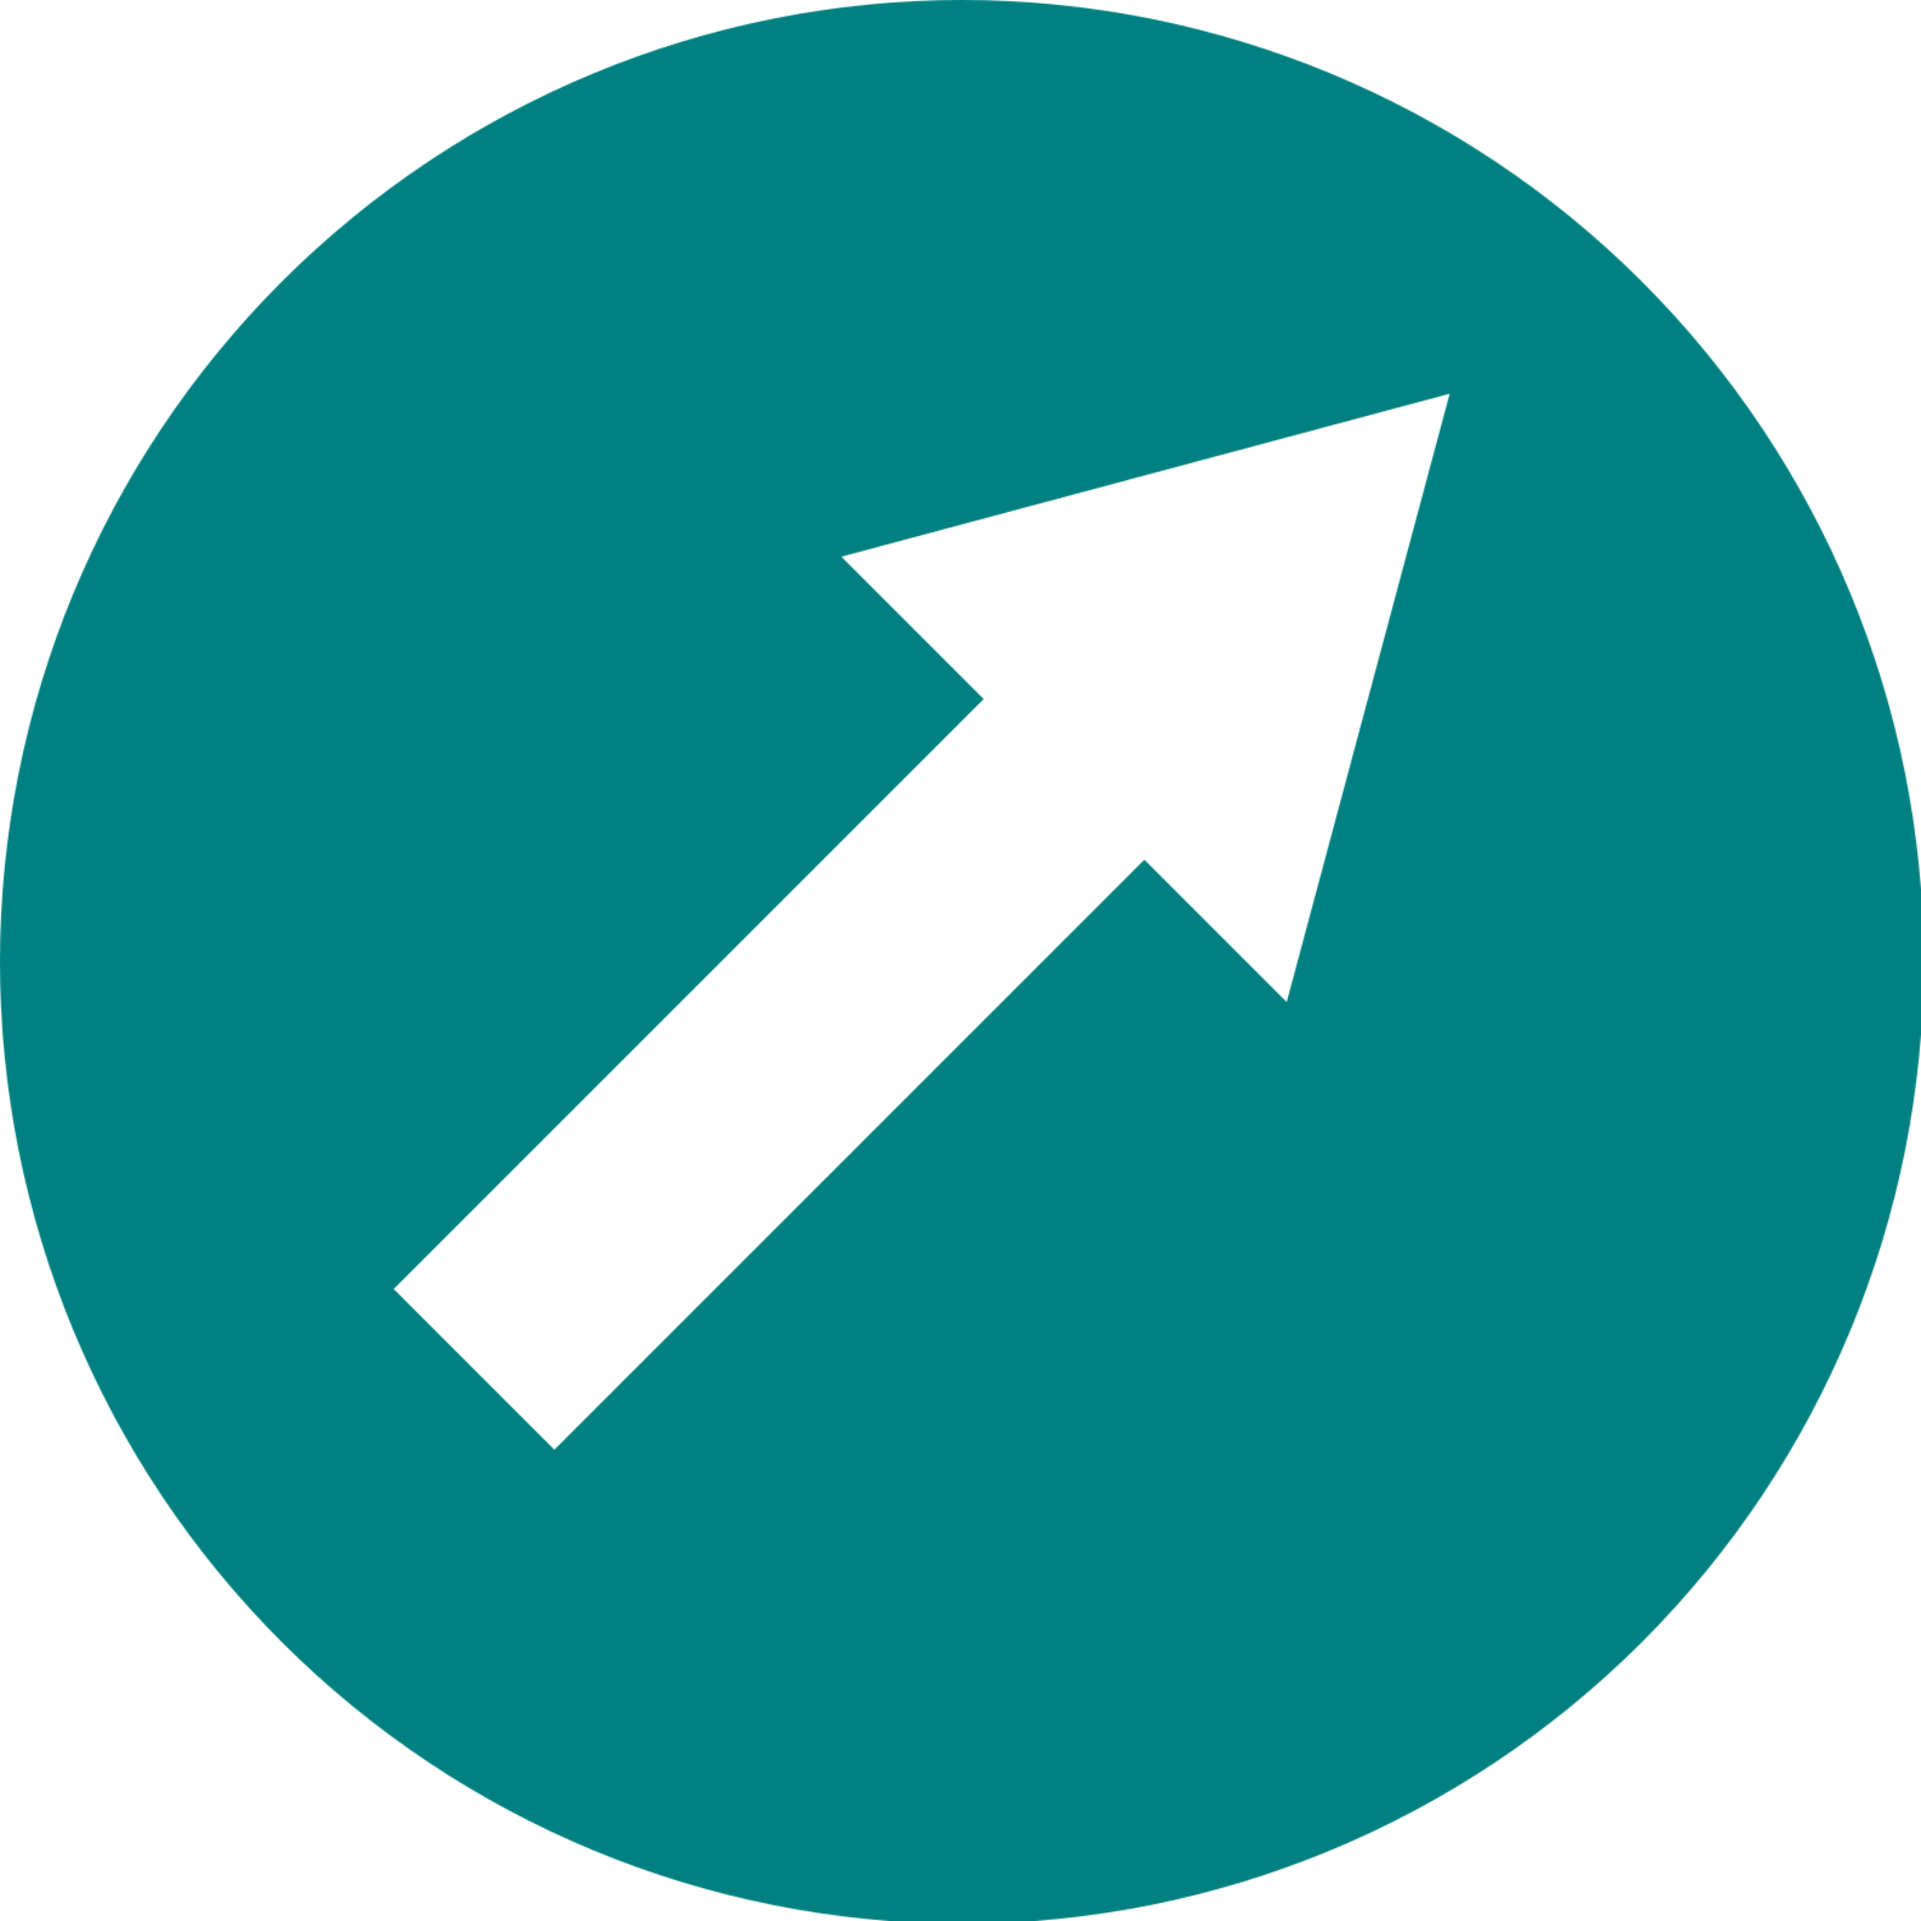
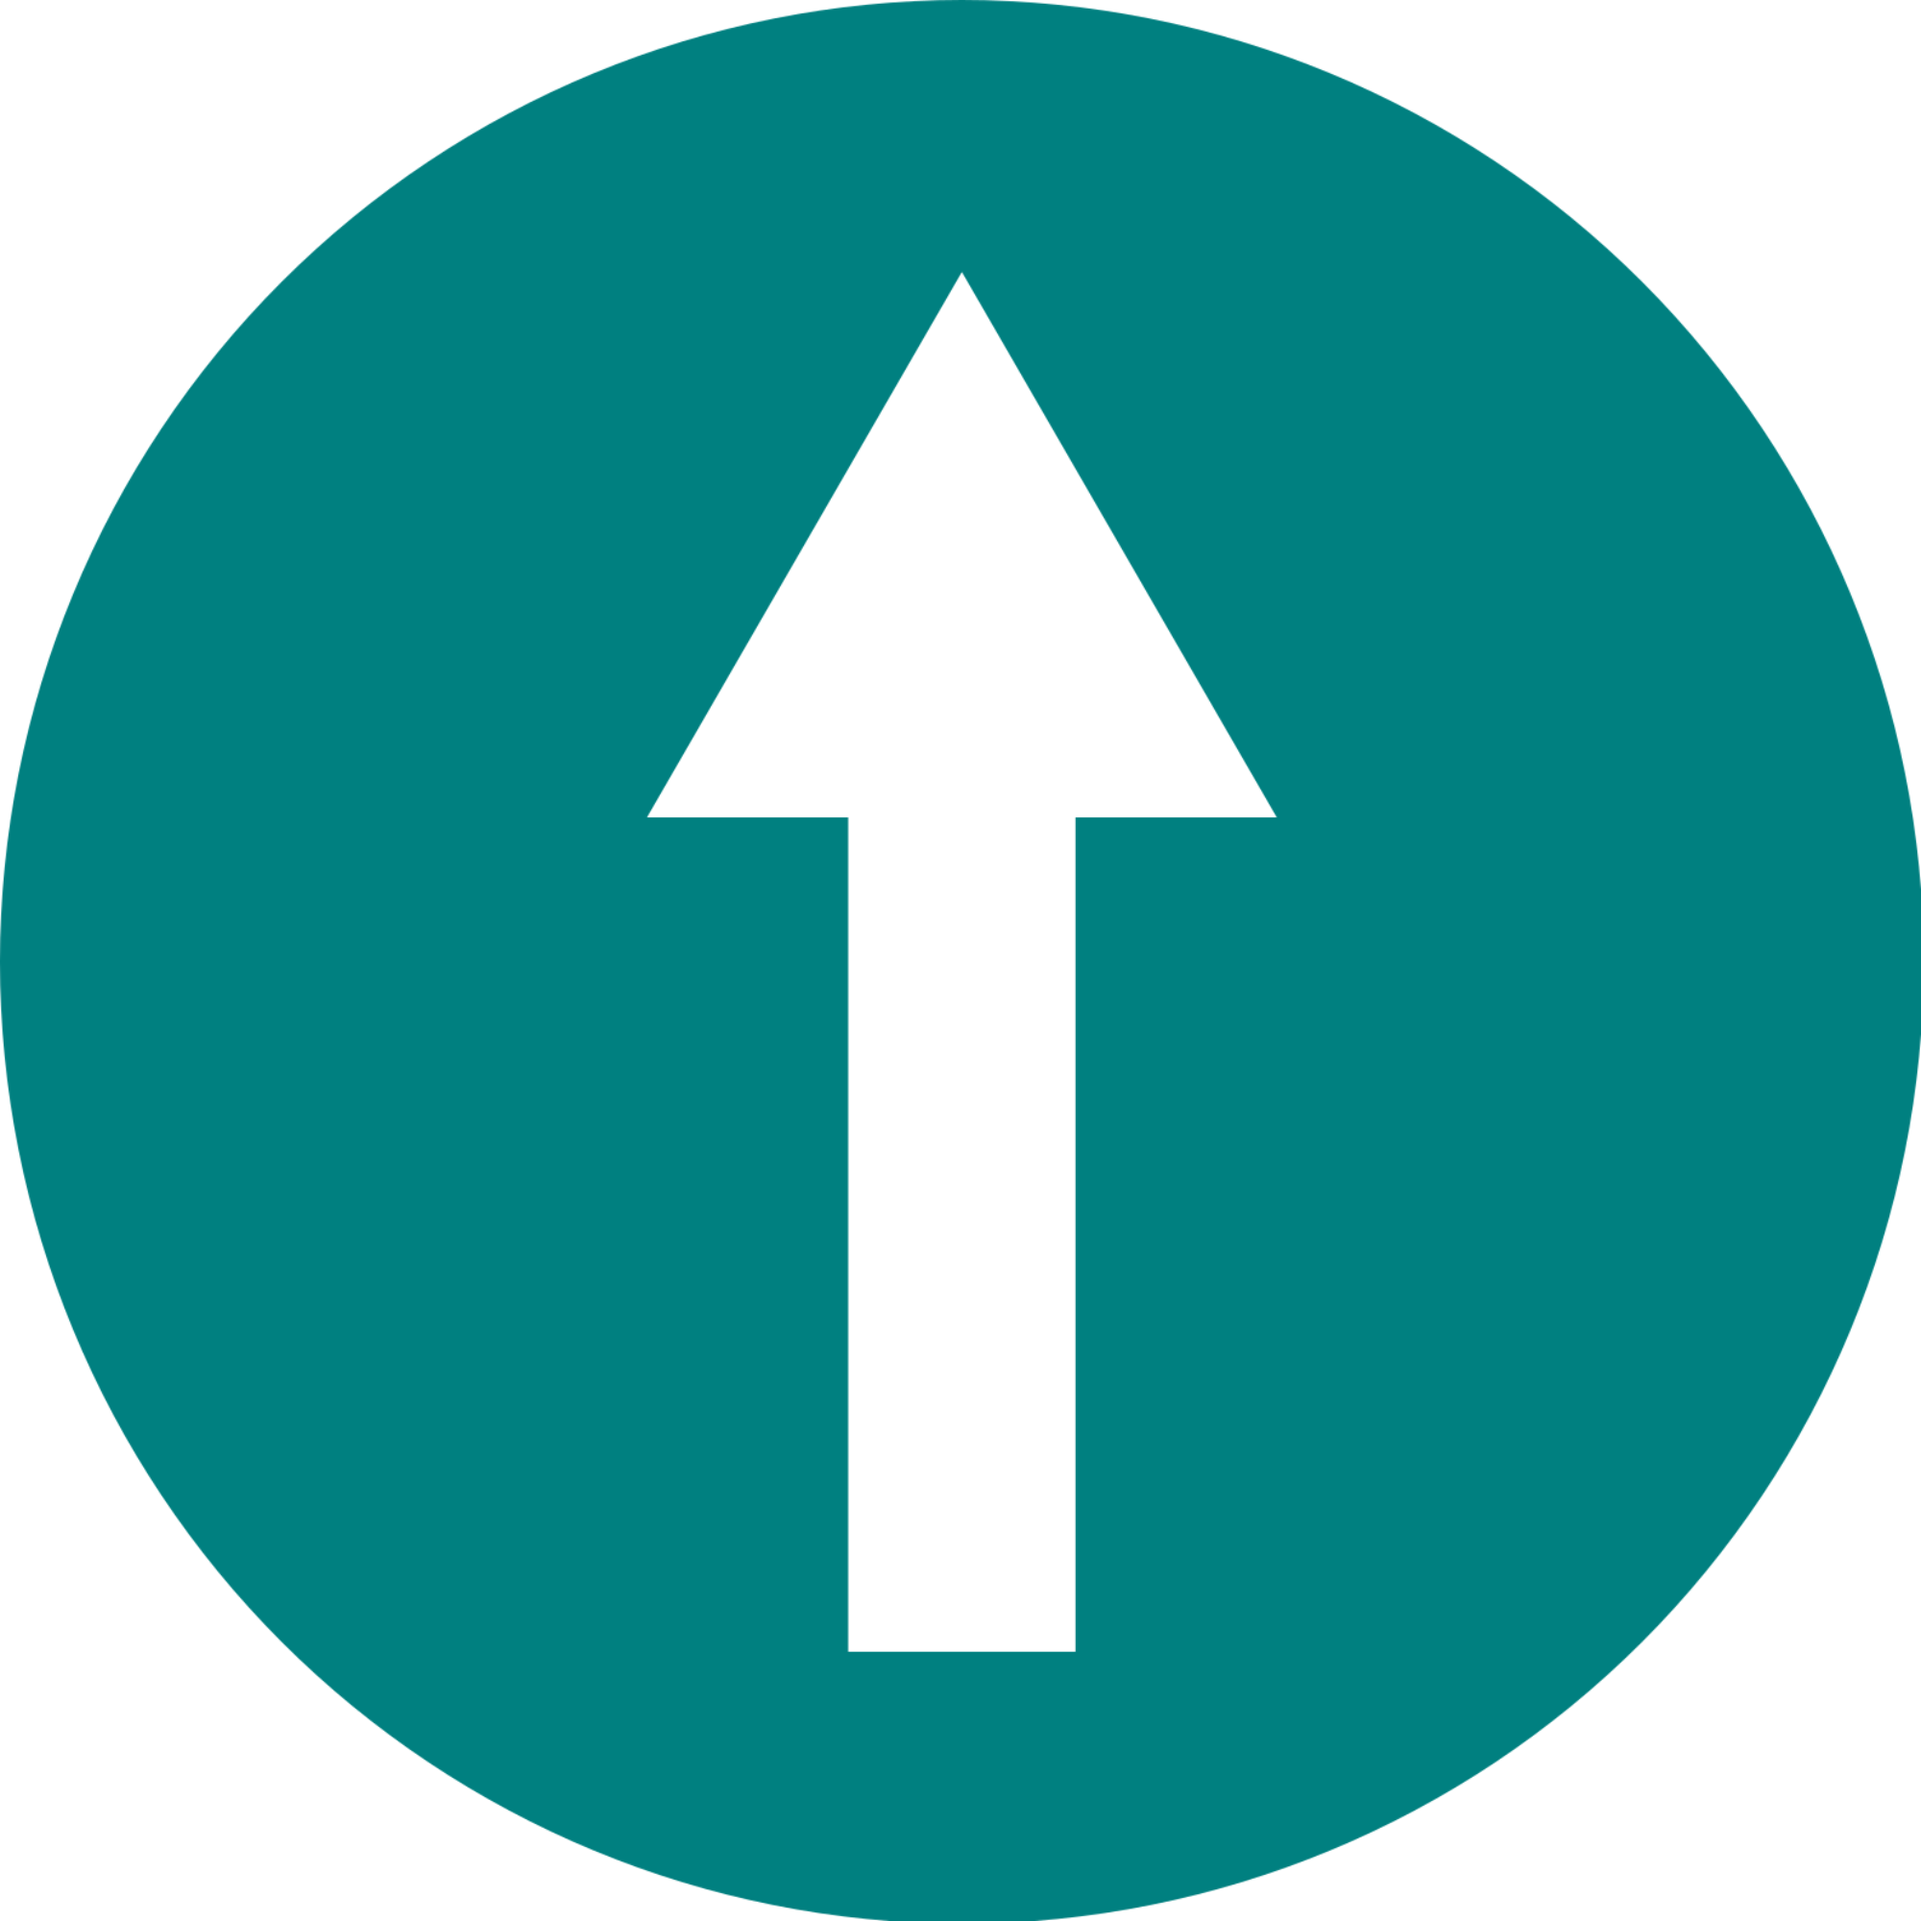
fix arrow place and change img

Changed region(s): [[0.186, 0.124, 0.775, 0.868]]

diff --git a/index.html b/index.html
@@ -11,17 +11,16 @@
     <div class="main-container">  
       <div class="guide-box">
         <img class="logo" src="./images/logo.png"></img>
-        <button id="button-door" onclick="changeFunction('door')">大門口</button>
+        <button id="button-door" onclick="changeFunction('door')">入口</button>
         <button
           id="button-administrative"
           onclick="changeFunction('administrative')"
         >
-          行政大樓
+          大門
         </button>
         <button id="button-doporchor" onclick="changeFunction('porch')">
-          玄關
-        </button>
-  
+          行政大樓
+        </button>  
         <button
           class="meeting-room"
           id="button-meeting"

diff --git a/main.js b/main.js
@@ -310,7 +310,7 @@ prochToMeetingArrow = new PANOLENS.Infospot(
   300,
   "./images/prochToMeetingArrow.png"
 );
-prochToMeetingArrow.position.set(-300, -1200, 3500);
+prochToMeetingArrow.position.set(-1150, -1200, 3500);
 prochToMeetingArrow.addHoverText("會議室");
 prochToMeetingArrow.addEventListener("click", function () {
   changeFunction("meeting");
